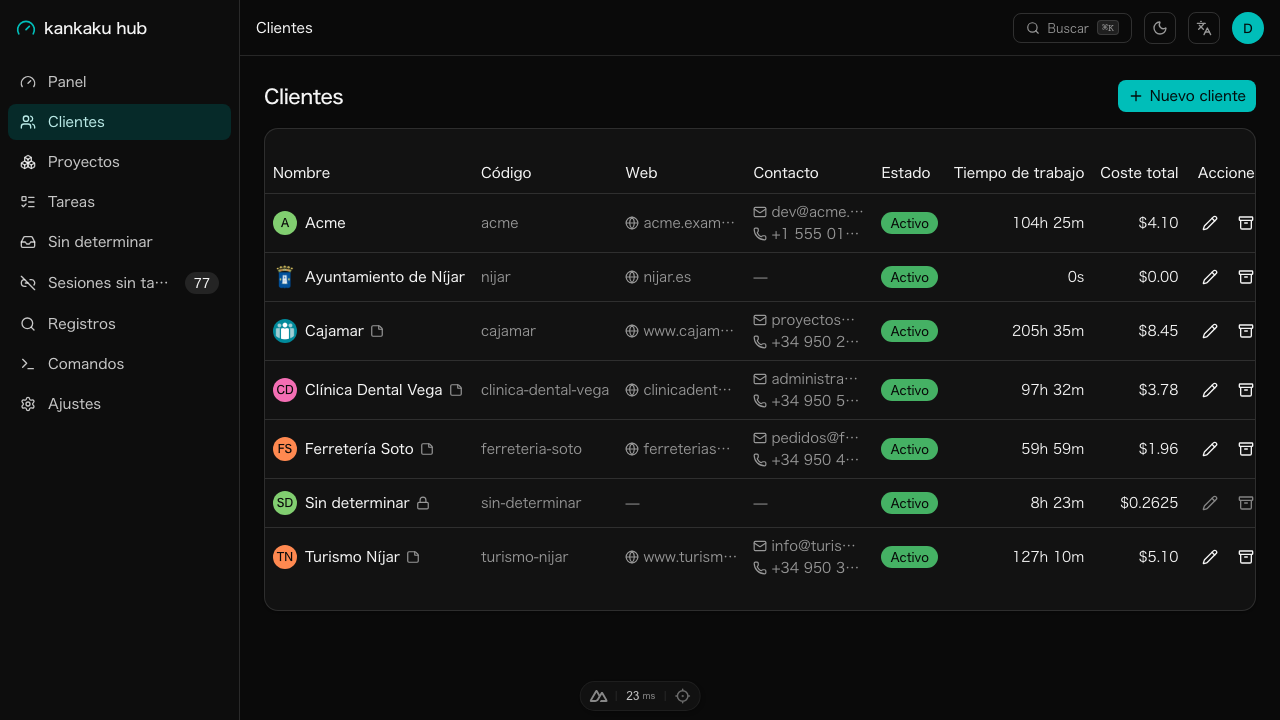
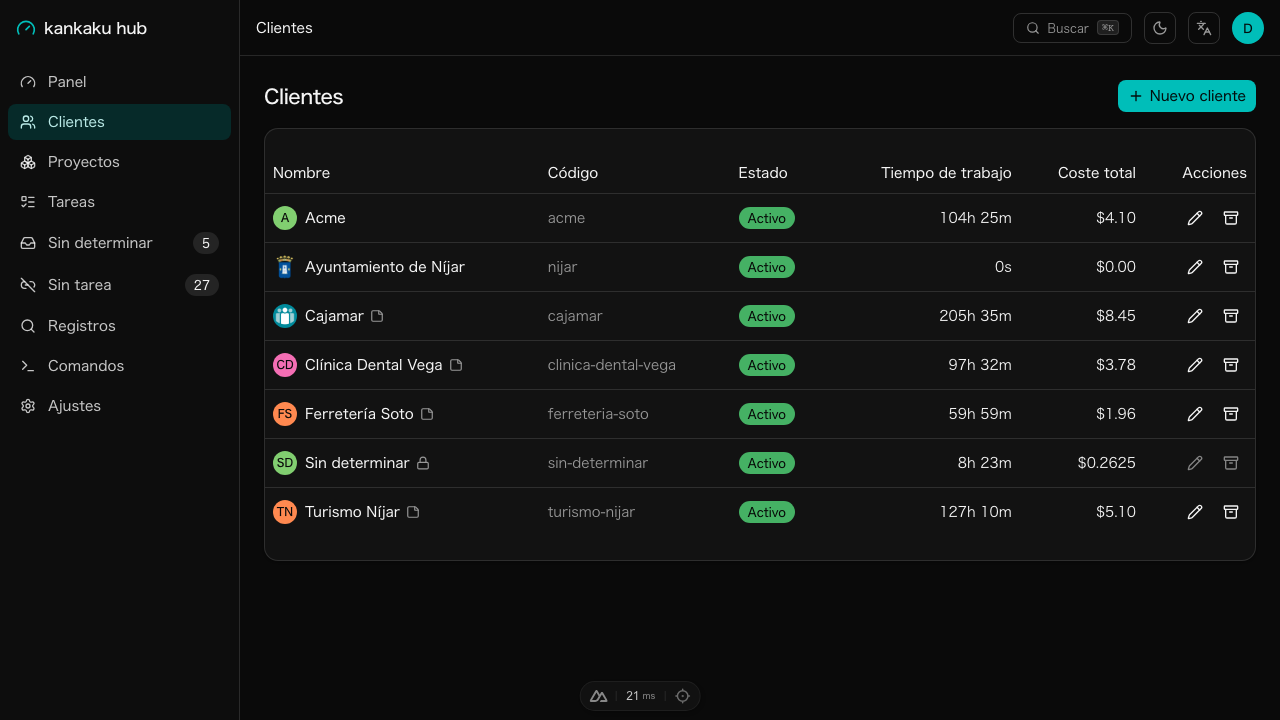
feat(clients): drop the web and contact columns from the table
The owner asked to remove the Website and Contact columns from the
clients table; that information still lives in the detail sheet and
the create/edit dialog. Drops the now-unused clients.contact i18n key
(clients.website stays — the edit dialog still uses it), relocates the
e2e coverage that checked website/email/phone in the table row to the
detail sheet instead, and marks CATMGMT-REQ-007 reversed in favor of a
new CATMGMT-REQ-012 in the catalog management spec.

diff --git a/web/e2e/client-contact.spec.ts b/web/e2e/client-contact.spec.ts
@@ -103,23 +103,24 @@ test('creating a client with all four contact fields shows them in the list and 
 
   const row = page.locator('table tbody tr', { hasText: name })
   await expect(row).toBeVisible()
-  // Website is shown without its scheme, as an external link.
-  await expect(row.getByRole('link', { name: 'example-e2e.test', exact: true })).toBeVisible()
-  await expect(row.getByRole('link', { name: 'owner@example-e2e.test' })).toHaveAttribute('href', 'mailto:owner@example-e2e.test')
-  // Phone is trimmed.
-  await expect(row.getByRole('link', { name: '+34 600 111 222' })).toHaveAttribute('href', 'tel:+34 600 111 222')
-  // Notes are never shown inline in the table — only an indicator icon.
+  // Website, email and phone are not shown in the table anymore — only in
+  // the detail sheet and the edit dialog. Notes are never shown inline in
+  // the table either — only an indicator icon next to the name.
+  await expect(row).not.toContainText('example-e2e.test')
+  await expect(row).not.toContainText('owner@example-e2e.test')
   await expect(row).not.toContainText('First line of notes')
 
-  // Open the detail sheet from the row and check the notes render with
-  // their line break preserved (plain text, not v-html).
+  // Open the detail sheet from the row and check website (as an external
+  // link, without its scheme), email (mailto: link), phone (tel: link,
+  // trimmed) and notes all render there, with the notes' line break
+  // preserved (plain text, not v-html).
   await row.locator('td').first().click()
   const sheet = page.locator('[data-slot="sheet-content"]')
   await expect(sheet).toBeVisible()
   await expect(sheet).toContainText(name)
-  await expect(sheet).toContainText('example-e2e.test')
-  await expect(sheet).toContainText('owner@example-e2e.test')
-  await expect(sheet).toContainText('+34 600 111 222')
+  await expect(sheet.getByRole('link', { name: 'example-e2e.test', exact: true })).toBeVisible()
+  await expect(sheet.getByRole('link', { name: 'owner@example-e2e.test' })).toHaveAttribute('href', 'mailto:owner@example-e2e.test')
+  await expect(sheet.getByRole('link', { name: '+34 600 111 222' })).toHaveAttribute('href', 'tel:+34 600 111 222')
 
   const notesText = await sheet.locator('p.whitespace-pre-wrap').first().textContent()
   expect(notesText).toContain('First line of notes.')
@@ -160,8 +161,13 @@ test('editing a client preserves and updates contact fields', async ({ page }) =
   await page.getByRole('button', { name: /^guardar$|^save$/i }).click()
   await expect(page.locator('#c-name')).toBeHidden()
 
-  await expect(row.getByRole('link', { name: 'after-edit.test', exact: true })).toBeVisible()
-  await expect(row.getByRole('link', { name: 'after@example.test' })).toBeVisible()
+  // Website and email are no longer shown in the table — open the detail
+  // sheet and check the updated values render there instead.
+  await row.locator('td').first().click()
+  const sheet = page.locator('[data-slot="sheet-content"]')
+  await expect(sheet).toBeVisible()
+  await expect(sheet.getByRole('link', { name: 'after-edit.test', exact: true })).toBeVisible()
+  await expect(sheet.getByRole('link', { name: 'after@example.test' })).toBeVisible()
 })
 
 test('invalid email and invalid website show inline errors and block submit', async ({ page }) => {

diff --git a/web/app/pages/clients/index.vue b/web/app/pages/clients/index.vue
@@ -248,12 +248,6 @@ async function onRefreshFavicon() {
               <TableRow>
                 <TableHead>{{ t('common.name') }}</TableHead>
                 <TableHead>{{ t('common.code') }}</TableHead>
-                <TableHead class="hidden md:table-cell md:max-w-24 lg:max-w-32">
-                  {{ t('clients.website') }}
-                </TableHead>
-                <TableHead class="hidden md:table-cell md:max-w-24 lg:max-w-32">
-                  {{ t('clients.contact') }}
-                </TableHead>
                 <TableHead>{{ t('common.status') }}</TableHead>
                 <TableHead class="text-right">
                   {{ t('clients.totalTime') }}
@@ -267,7 +261,7 @@ async function onRefreshFavicon() {
               </TableRow>
             </TableHeader>
             <TableBody>
-              <SkeletonRows v-if="loading && clients.length === 0" :rows="4" :cols="8" />
+              <SkeletonRows v-if="loading && clients.length === 0" :rows="4" :cols="6" />
               <TableRow
                 v-for="c in clients"
                 :key="c.id"
@@ -292,40 +286,6 @@ async function onRefreshFavicon() {
                 </TableCell>
                 <TableCell class="text-muted-foreground">
                   {{ c.code }}
-                </TableCell>
-                <TableCell class="hidden max-w-24 text-muted-foreground md:table-cell lg:max-w-32" @click.stop>
-                  <a
-                    v-if="isSafeLinkUrl(c.website ?? '')"
-                    :href="c.website"
-                    target="_blank"
-                    rel="noopener noreferrer"
-                    class="flex min-w-0 items-center gap-1 hover:underline"
-                  >
-                    <Globe class="size-3.5 shrink-0" />
-                    <span class="min-w-0 flex-1 truncate">{{ displayUrlWithoutScheme(c.website ?? '') }}</span>
-                  </a>
-                  <span v-else>—</span>
-                </TableCell>
-                <TableCell class="hidden max-w-24 text-muted-foreground md:table-cell lg:max-w-32" @click.stop>
-                  <div class="flex flex-col gap-0.5">
-                    <a
-                      v-if="c.contact_email"
-                      :href="`mailto:${c.contact_email}`"
-                      class="flex min-w-0 items-center gap-1 hover:underline"
-                    >
-                      <Mail class="size-3.5 shrink-0" />
-                      <span class="min-w-0 flex-1 truncate">{{ c.contact_email }}</span>
-                    </a>
-                    <a
-                      v-if="c.contact_phone"
-                      :href="`tel:${c.contact_phone}`"
-                      class="flex min-w-0 items-center gap-1 hover:underline"
-                    >
-                      <Phone class="size-3.5 shrink-0" />
-                      <span class="min-w-0 flex-1 truncate">{{ c.contact_phone }}</span>
-                    </a>
-                    <span v-if="!c.contact_email && !c.contact_phone">—</span>
-                  </div>
                 </TableCell>
                 <TableCell>
                   <Badge :variant="c.active ? 'success' : 'outline'">

diff --git a/docs/specs/web-catalog-management.md b/docs/specs/web-catalog-management.md
@@ -42,6 +42,12 @@ for silent auto-selection.
    `https:` URL SHALL ever become a clickable `website` link. `notes`
    SHALL NOT be shown in the table — only a small indicator when a client
    has notes.
+   (Reversed on 2026-09-20 at the owner's request: the `website` and
+   `contact_email`/`contact_phone` columns no longer render in the
+   clients table at all — that information now lives only in the client
+   detail sheet and the create/edit dialog, per `CATMGMT-REQ-012`. The
+   `notes`-indicator half of this requirement is unaffected and still
+   holds. The id is kept so history stays traceable.)
 8. `CATMGMT-REQ-008` — A client detail view SHALL be reachable from the
    clients list, showing every field (notes rendered as plain text with
    line breaks preserved, never `v-html`), the client's totals, and its
@@ -65,6 +71,14 @@ for silent auto-selection.
     (to the right of it, vertically centered, never wrapping under the
     name or colliding with the sheet's close button), with the client's
     `code` on the line below.
+12. `CATMGMT-REQ-012` — The clients list table SHALL NOT render `website`,
+    `contact_email`, or `contact_phone` as columns. That information
+    SHALL be shown only in the client detail sheet (`website` as a
+    safe-scheme external link, `contact_email` as a `mailto:` link,
+    `contact_phone` as a `tel:` link, same rules as `CATMGMT-REQ-007`)
+    and in the create/edit dialog's form fields. The table SHALL
+    continue to show a small indicator next to the client's name when it
+    has notes.
 
 ## Amendments (client favicons)
 
@@ -72,6 +86,14 @@ Requirements `CATMGMT-REQ-010`/`011` were added when
 [`client-favicons.md`](client-favicons.md) landed — that spec owns the
 avatar/favicon-refresh behavior itself; this one only owns *where* a
 client name is shown and the detail sheet's header layout.
+
+## Amendments (clients table simplification)
+
+`CATMGMT-REQ-012` was added on 2026-09-20 when the owner asked to drop
+the `website` and `contact_email`/`contact_phone` columns from the
+clients table (see the reversal note on `CATMGMT-REQ-007`). The
+information itself was never removed from the product — it remains one
+click away in the detail sheet and in the edit dialog.
 
 ## Scenarios
 
@@ -105,17 +127,24 @@ client name is shown and the detail sheet's header layout.
 - **When** the owner submits the form
 - **Then** the dialog stays open and an inline, field-scoped error message is shown next to the offending field
 
-### Scenario: only a safe URL scheme ever becomes a clickable link (`CATMGMT-REQ-007`)
+### Scenario: only a safe URL scheme ever becomes a clickable link (`CATMGMT-REQ-012`)
 
 - **Given** a client's `website` value is not a syntactically valid `http:`/`https:` URL (e.g. it was written directly to the database)
-- **When** the clients list or detail view renders that client
+- **When** the client detail view renders that client
 - **Then** the value is shown as plain text, never as an `<a href>`
 
-### Scenario: the clients table never overflows the page (`CATMGMT-REQ-007`)
+### Scenario: the clients table never overflows the page (`CATMGMT-REQ-012`)
 
 - **Given** the clients screen is viewed at 390px width
 - **When** the page renders
-- **Then** the document does not scroll horizontally (website/contact columns collapse below the `md` breakpoint, and long values truncate rather than widening the table at any width)
+- **Then** the document does not scroll horizontally (the table has no `website`/`contact_email`/`contact_phone` columns to begin with — only Name, Code, Status, Total time, Total cost and Actions render — and long values in those columns truncate rather than widening the table at any width)
+
+### Scenario: website and contact info live in the detail sheet, not the table (`CATMGMT-REQ-012`)
+
+- **Given** a client has a `website`, `contact_email`, and `contact_phone`
+- **When** the owner views that client's row in the clients table
+- **Then** none of those three values (nor any link for them) appears in the row
+- **And** opening the row's detail sheet shows the website as an external link, the email as a `mailto:` link, and the phone as a `tel:` link
 
 ### Scenario: notes preserve line breaks as plain text (`CATMGMT-REQ-008`)
 
@@ -165,8 +194,9 @@ None beyond the shared PocketBase connection.
 | `CATMGMT-REQ-004` | `web/app/composables/useClients.ts`, `web/app/composables/useProjects.ts` (code review) | covered |
 | `CATMGMT-REQ-005` | `web/e2e/smoke.spec.ts` | covered |
 | `CATMGMT-REQ-006` | `web/tests/client-contact.test.ts`, `web/e2e/client-contact.spec.ts` ("creating...", "editing...", "invalid email and invalid website...") | covered |
-| `CATMGMT-REQ-007` | `web/tests/client-contact.test.ts` (`isSafeLinkUrl`), `web/e2e/client-contact.spec.ts` ("creating...", "no horizontal page overflow", "row actions...visible") | covered |
+| `CATMGMT-REQ-007` | reversed 2026-09-20 — see the note on the requirement and `CATMGMT-REQ-012` | reversed |
 | `CATMGMT-REQ-008` | `web/e2e/client-contact.spec.ts` ("creating..." — notes line-break assertion) | covered |
 | `CATMGMT-REQ-009` | manual verification against a genuinely pre-migration PocketBase instance (recorded in `ESTADO.md`); no automated test (would require serving two schema states in one Playwright run) | partially covered |
 | `CATMGMT-REQ-010` | `web/e2e/client-avatars.spec.ts` ("client avatars render across the app") | covered |
 | `CATMGMT-REQ-011` | `web/e2e/client-avatars.spec.ts` ("client detail sheet header layout") | covered |
+| `CATMGMT-REQ-012` | `web/tests/client-contact.test.ts` (`isSafeLinkUrl`), `web/e2e/client-contact.spec.ts` ("creating...", "editing...", "no horizontal page overflow") | covered |
